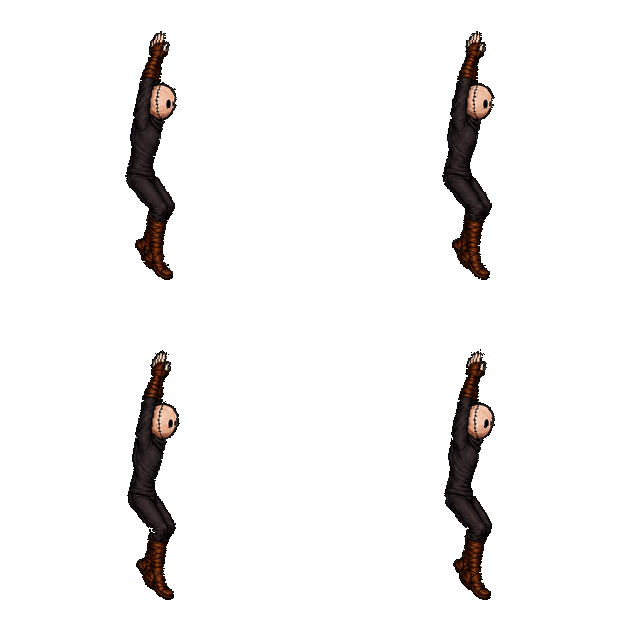
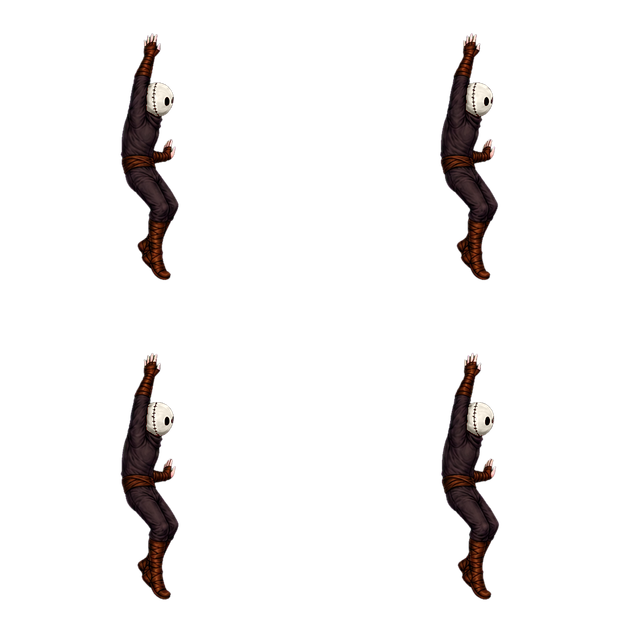
fix: polish ledge hang layering and hud

diff --git a/docs/art/player_animation_normalization.md b/docs/art/player_animation_normalization.md
@@ -103,19 +103,14 @@ All three active variant sheets are green-keyed while preserving the
 recordings' shared 640 px camera origin and ground line, then reduced to 320 px
 runtime cells. The stationary animation uses a `0.90` content scale, leaving at
 least 16 transparent pixels around every occupied frame so slash effects cannot
-bleed into adjacent atlas cells.
+clip at cell boundaries. It uses one consistent runtime scale across all 19
+frames; pose foreshortening is kept in the artwork instead of compensating with
+per-frame scale changes that make the upward sweep visibly grow.
 Backpedal clips retain their `1.15` source scale because their recorded framing
 already provides safe gutters. Preserving the fixed source canvas prevents a
 low slash trail from being mistaken for a foot anchor and shifting the body
 between frames. Broad white slash effects are protected during the selective
 bronze weapon recolor so the VFX does not inherit the weapon palette.
-
-The stationary-derived frames change apparent character scale during the middle
-of the first sweep. Runtime frames 5-9 therefore receive conservative per-frame
-presentation multipliers between `1.08` and `1.21`, with an equal upward
-foot-anchor correction. This corrects the visible character-size pulse without
-resampling the shared atlas cells, clipping their large slash arcs, or making
-the feet bob against the floor.
 
 The logical moving and backpedal opener/finisher chains remain at 14 and 19
 frames. A stationary input bypasses the opener, plays the approved double-hit
@@ -198,6 +193,12 @@ node's `SpriteFrames` resource. Stationary and backpedal attacks, ledge hang,
 wall cling, and the save-point sit sequence can therefore be previewed and
 edited in the Godot inspector without running the game. `player.gd` selects
 among those authored clips but no longer creates animation frames in `_ready()`.
+
+The ledge-hang sheet is a separately authored four-frame contact pose. Its upper
+hand, overall bounds, and foot line are registered within two pixels across the
+loop; the arched torso and restored waist sash are preserved directly in the
+artwork. The normalizer removes any connected dark background but does not apply
+the wall-cling procedural warp to this sheet.
 
 ### Secondary motion and grapple tosses
 
